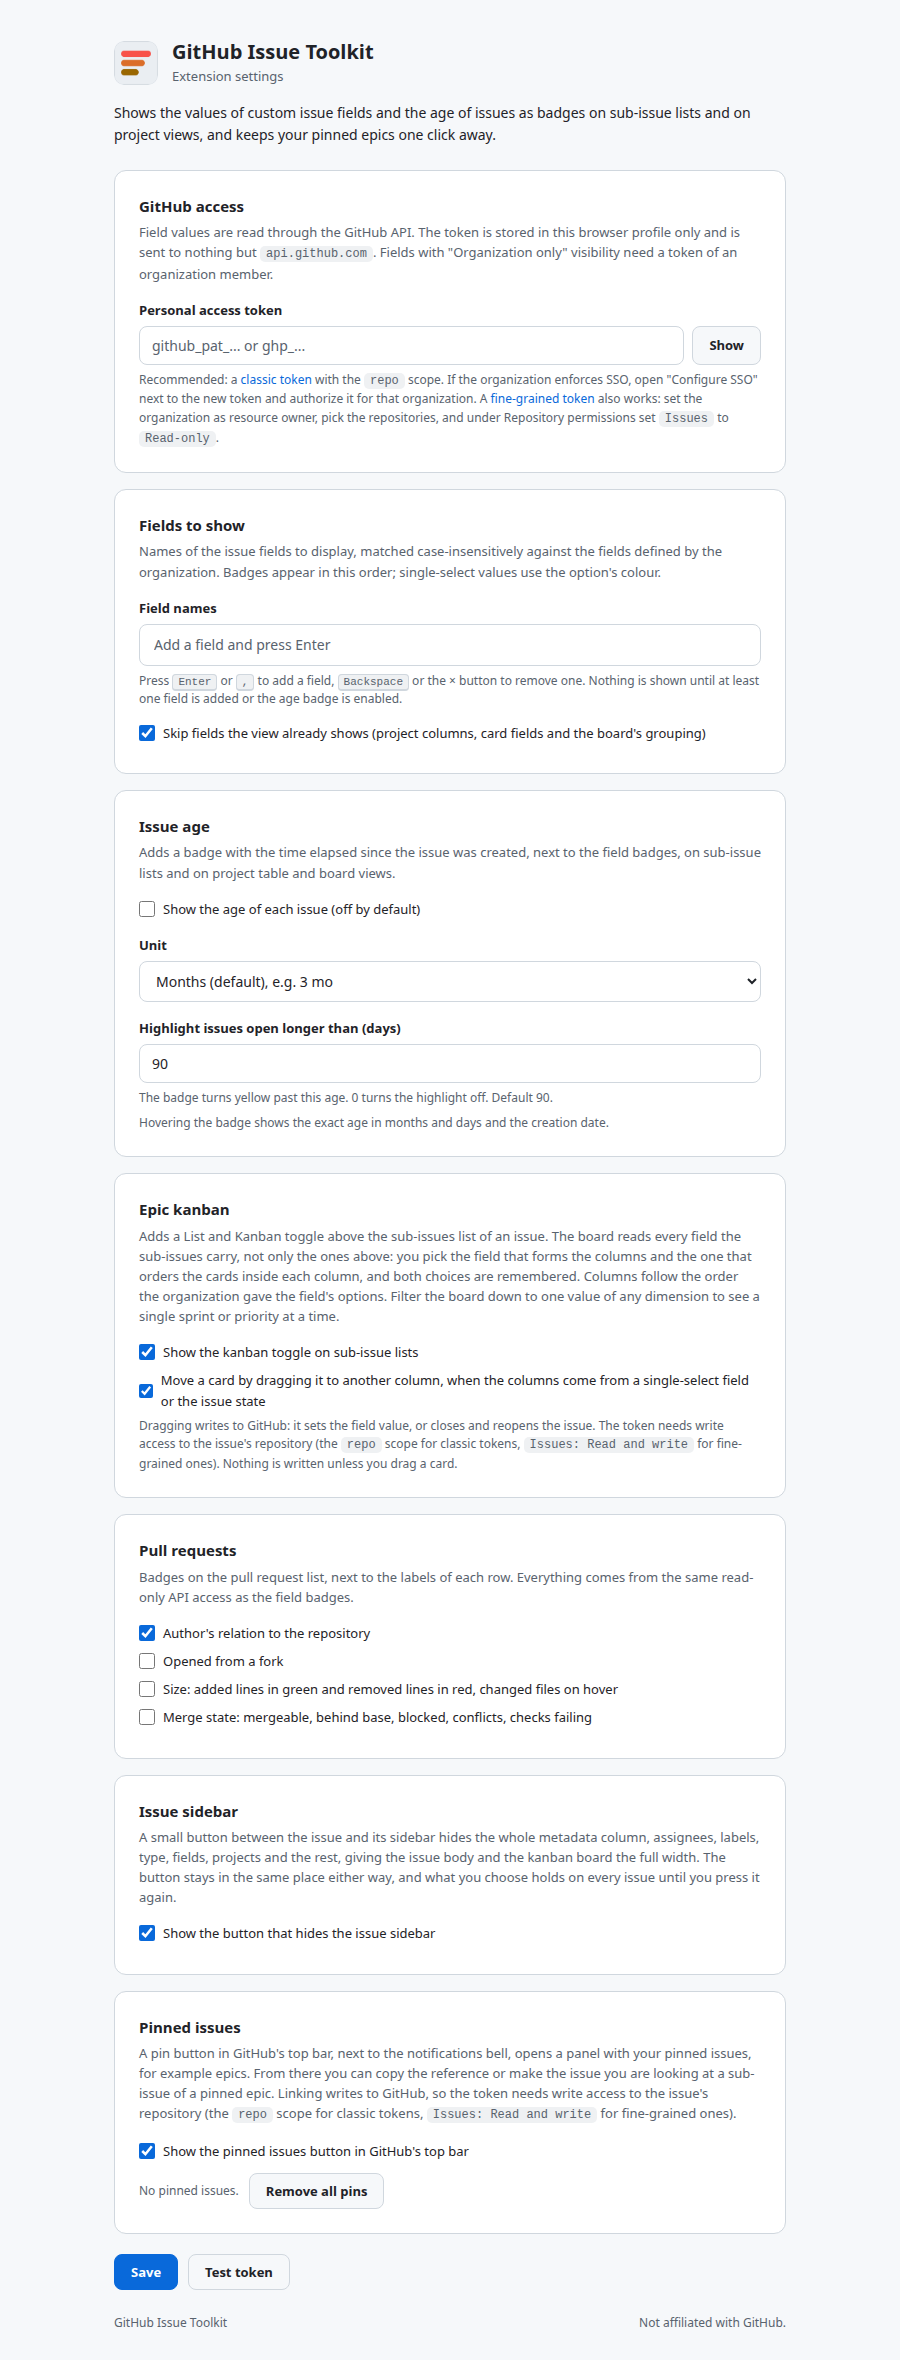
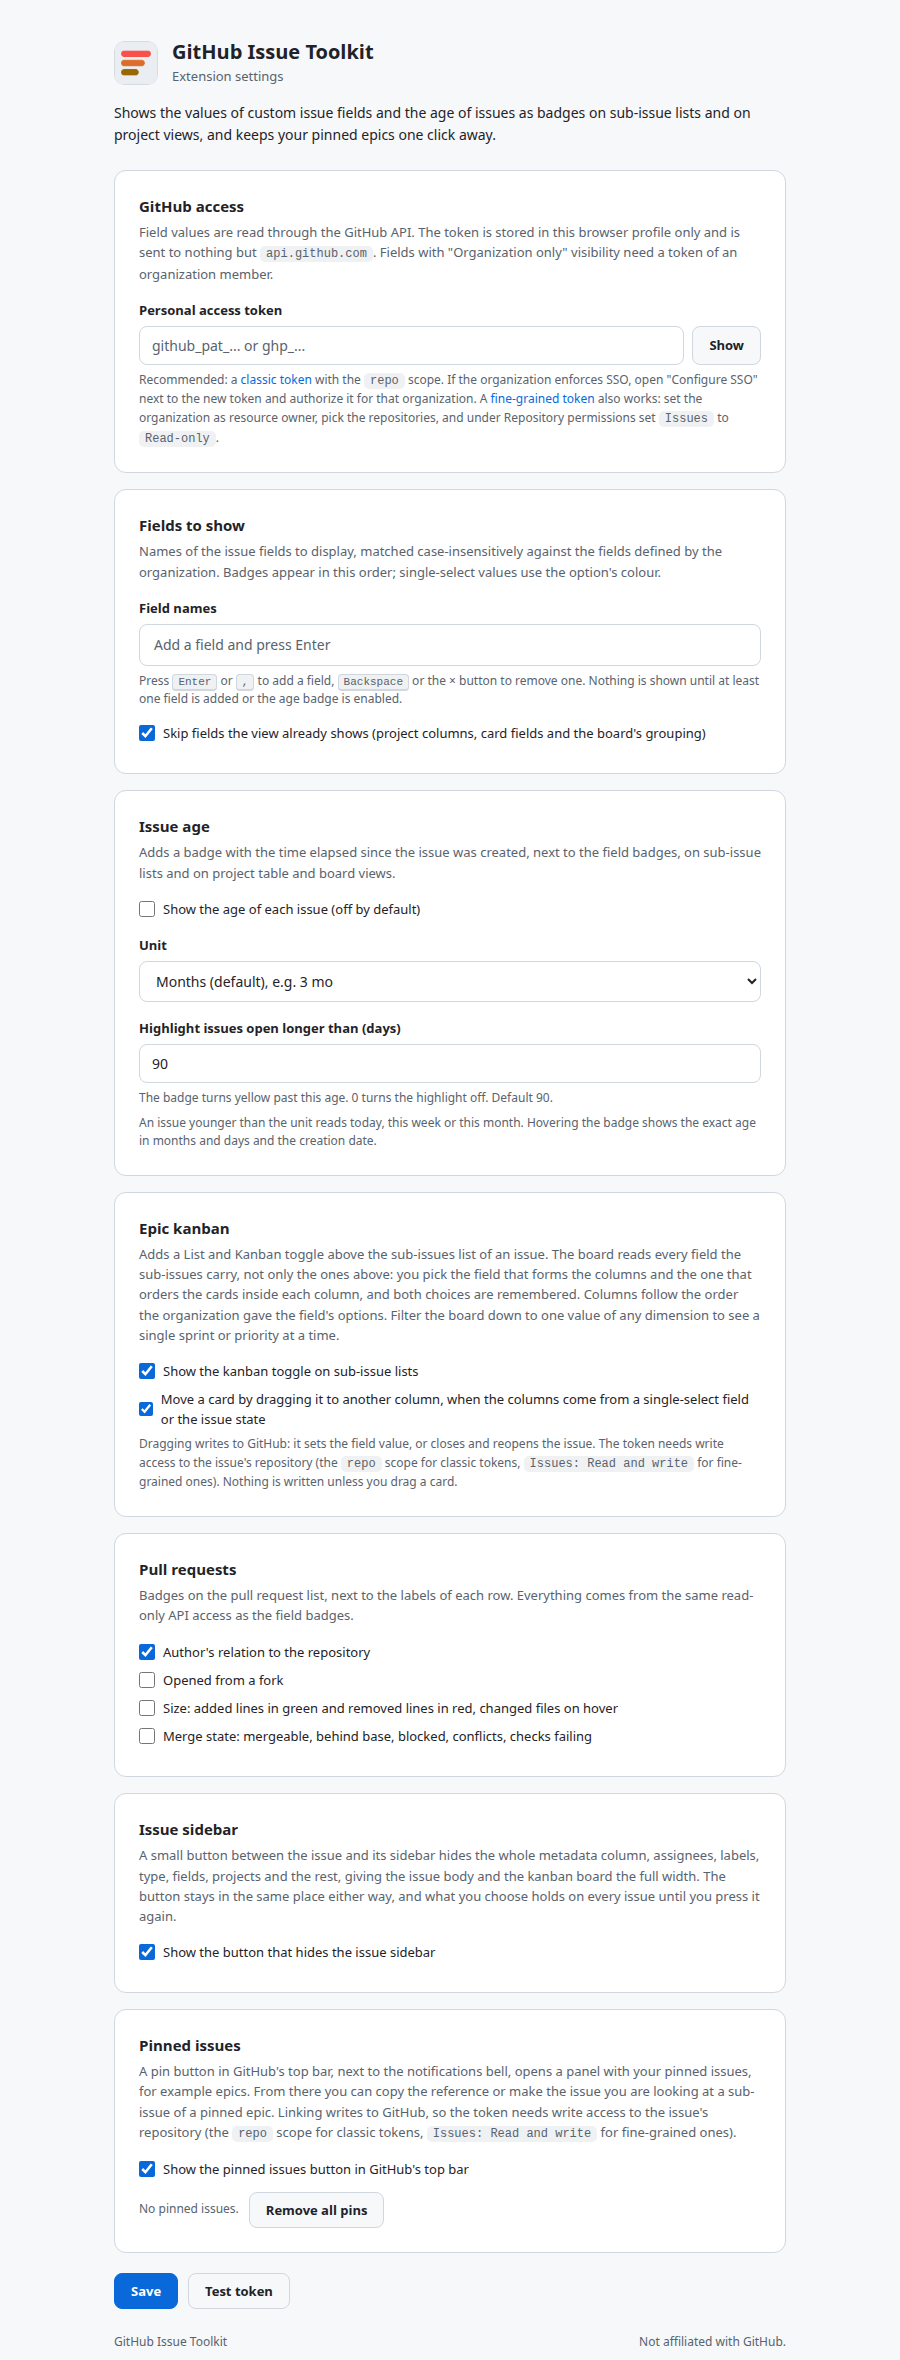
fix(age): say today, this week or this month instead of 0d, <1w and <1 mo (#4)
The age badge used a bare number or a less-than sign for an issue younger than the chosen unit, so a fresh issue read 0d, <1w or <1 mo. Those now read as words, today, this week and this month, which is what the number was trying to say. The settings hint, the README, the site and the changelog describe the new wording.

- content.js: the days unit reads today at zero days, the weeks unit reads this week under one week, the months unit reads this month under one month; the tooltip and the yellow threshold are unchanged.
- options.html: the age hint says how an issue younger than the unit reads.
- README.md, docs/index.html: the age feature descriptions mention the words.
- docs/settings-*.png: re-rendered for the longer hint.
- CHANGELOG.md: Unreleased entry.

Changed region(s): [[0.1244, 0.464, 0.84, 1.0], [0.7156, 0.9898, 0.8711, 1.0]]

diff --git a/docs/index.html b/docs/index.html
@@ -371,7 +371,7 @@
         <div class="card"><h3>You pick the fields</h3><p>Choose which fields to show and in what order on the settings page. One field or five, per your workflow.</p></div>
         <div class="card"><h3>One request per page</h3><p>All visible rows, across repositories, are fetched in batched GitHub GraphQL queries of 60 issues. Results are cached for five minutes.</p></div>
         <div class="card"><h3>Projects views too</h3><p>The same badges appear on GitHub Projects: after the issue number in the table layout, under the title on board cards. A field the view already shows, as a column, a card field or the field the board is grouped by, is skipped so nothing appears twice. Draft items and pull requests are left alone.</p></div>
-        <div class="card"><h3>Issue age, if you want it</h3><p>An optional gray badge shows how long ago each issue was created, in months, weeks or days, and turns yellow once an issue has been open longer than a threshold you set, 90 days by default. Off by default, one checkbox in the settings.</p></div>
+        <div class="card"><h3>Issue age, if you want it</h3><p>An optional gray badge shows how long ago each issue was created, in months, weeks or days, and turns yellow once an issue has been open longer than a threshold you set, 90 days by default. An issue younger than the unit reads today, this week or this month. Off by default, one checkbox in the settings.</p></div>
         <div class="card"><h3>Pull request badges</h3><p>On the pull request list and on Projects views that contain pull requests: whether the author is a first-time contributor, external, a contributor, a collaborator, a member or a bot, plus optional badges for forks, size and merge state.</p></div>
         <div class="card"><h3>Epics as a board</h3><p>An issue with sub-issues gets a List and Kanban toggle. The board groups the sub-issues by any field they carry, orders each column by another, and filters everything down to one value of a third. Drag a card to another column and the field value, or the issue state, is written back to GitHub.</p></div>
         <div class="card"><h3>Sidebar out of the way</h3><p>A chevron in the gutter hides an issue's whole metadata column, and the issue body and the board take the width. It holds on every issue until you press it again.</p></div>
@@ -441,7 +441,7 @@
       </div>
 
       <h3 style="margin-top:28px">Issue age</h3>
-      <p class="muted" style="font-size:14px">Off by default. When enabled, a gray badge shows how long ago the issue was created, in months, weeks or days; past a configurable age, 90 days by default, it turns yellow. Hovering gives the exact age and the creation date.</p>
+      <p class="muted" style="font-size:14px">Off by default. When enabled, a gray badge shows how long ago the issue was created, in months, weeks or days; past a configurable age, 90 days by default, it turns yellow. An issue younger than the unit reads today, this week or this month. Hovering gives the exact age and the creation date.</p>
       <div class="panel gh-card" id="ex-age" style="max-width:680px">
         <div class="head"><svg class="chev" viewBox="0 0 16 16" aria-hidden="true"><path d="M12.78 5.22a.749.749 0 0 1 0 1.06l-4.25 4.25a.749.749 0 0 1-1.06 0L3.22 6.28a.749.749 0 1 1 1.06-1.06L8 8.939l3.72-3.719a.749.749 0 0 1 1.06 0Z"/></svg><span class="head-title">Sub-issues</span><span class="progress"><svg class="prog" viewBox="0 0 16 16" aria-hidden="true"><circle cx="8" cy="8" r="6" fill="none" stroke="currentColor" stroke-opacity=".3" stroke-width="2"/><path d="M8 2a6 6 0 0 1 6 6" fill="none" stroke="currentColor" stroke-width="2"/></svg>1 of 3</span><svg class="ico" viewBox="0 0 16 16" aria-hidden="true"><path d="M.75 3h14.5a.75.75 0 0 1 0 1.5H.75a.75.75 0 0 1 0-1.5ZM3 7.75A.75.75 0 0 1 3.75 7h8.5a.75.75 0 0 1 0 1.5h-8.5A.75.75 0 0 1 3 7.75Zm3 4a.75.75 0 0 1 .75-.75h2.5a.75.75 0 0 1 0 1.5h-2.5a.75.75 0 0 1-.75-.75Z"/></svg></div>
         <div class="row"><svg class="state" viewBox="0 0 16 16" aria-label="Open" role="img"><path d="M8 9.5a1.5 1.5 0 1 0 0-3 1.5 1.5 0 0 0 0 3Z"/><path d="M8 0a8 8 0 1 1 0 16A8 8 0 0 1 8 0ZM1.5 8a6.5 6.5 0 1 0 13 0 6.5 6.5 0 0 0-13 0Z"/></svg><div class="text"><span class="badge b-danger">Bug</span><span class="badge b-severe">P1: Must Have</span><span class="badge b-neutral">7 mo</span>Search results ignore the selected date range<span class="ref">#1482</span></div><div class="extras"><svg class="pr" viewBox="0 0 16 16" aria-hidden="true"><path d="M1.5 3.25a2.25 2.25 0 1 1 3 2.122v5.256a2.251 2.251 0 1 1-1.5 0V5.372A2.25 2.25 0 0 1 1.5 3.25Zm5.677-.177L9.573.677A.25.25 0 0 1 10 .854V2.5h1A2.5 2.5 0 0 1 13.5 5v5.628a2.251 2.251 0 1 1-1.5 0V5a1 1 0 0 0-1-1h-1v1.646a.25.25 0 0 1-.427.177L7.177 3.427a.25.25 0 0 1 0-.354Z"/></svg> 2<span class="avatar a1"></span><span class="kebab" aria-hidden="true">···</span></div></div>

diff --git a/content.js b/content.js
@@ -207,13 +207,13 @@
     const days = Math.max(0, Math.floor((Date.now() - created.getTime()) / DAY_MS));
     let text;
     if (settings.ageUnit === "days") {
-      text = `${days}d`;
+      text = days === 0 ? "today" : `${days}d`;
     } else if (settings.ageUnit === "weeks") {
       const weeks = Math.floor(days / 7);
-      text = weeks < 1 ? "<1w" : `${weeks}w`;
+      text = weeks < 1 ? "this week" : `${weeks}w`;
     } else {
       const months = Math.floor(days / 30.4375);
-      text = months < 1 ? "<1 mo" : `${months} mo`;
+      text = months < 1 ? "this month" : `${months} mo`;
     }
     const months = Math.floor(days / 30.4375);
     const warn = settings.ageWarnDays > 0 && days >= settings.ageWarnDays;

diff --git a/options.html b/options.html
@@ -190,7 +190,7 @@
       <label for="age-warn">Highlight issues open longer than (days)</label>
       <input id="age-warn" type="number" min="0" step="1" inputmode="numeric" placeholder="90">
       <p class="hint">The badge turns yellow past this age. 0 turns the highlight off. Default 90.</p>
-      <p class="hint">Hovering the badge shows the exact age in months and days and the creation date.</p>
+      <p class="hint">An issue younger than the unit reads today, this week or this month. Hovering the badge shows the exact age in months and days and the creation date.</p>
     </section>
 
     <section class="card">

diff --git a/README.md b/README.md
@@ -48,7 +48,7 @@ Illustrations of an invented repository, rendered from the documentation site wi
 </picture>
 </p>
 
-**Issue age** (optional, off by default): a gray badge with the time since the issue was created, in months, weeks or days; yellow once the issue is older than the threshold, 90 days by default.
+**Issue age** (optional, off by default): a gray badge with the time since the issue was created, in months, weeks or days, or today, this week or this month for an issue younger than the unit; yellow once the issue is older than the threshold, 90 days by default.
 
 <p align="center">
 <picture>
@@ -88,7 +88,7 @@ Illustrations of an invented repository, rendered from the documentation site wi
 
 - Badges appear next to the issue type on each sub-issue row, in the option's colour.
 - The same badges appear on GitHub Projects views: after the issue number in the table layout, under the title on board cards. Fields the view already shows are skipped so nothing appears twice: a column, a card field, or the field a board is grouped by (can be turned off in the settings).
-- An optional **age** badge shows how old each issue is, in months (`3 mo`), weeks or days, and turns yellow once an issue has been open longer than a threshold you choose (90 days by default). Off by default.
+- An optional **age** badge shows how old each issue is, in months (`3 mo`), weeks or days, reads `today`, `this week` or `this month` for an issue younger than the unit, and turns yellow once an issue has been open longer than a threshold you choose (90 days by default). Off by default.
 - **Pull request badges** on the pull request list and on Projects views that contain pull requests: the author's relation to the repository (first-time contributor, external, contributor, collaborator, member, bot) on by default, plus optional badges for forks, size (added lines in green, removed in red) and merge state.
 - An **epic kanban**: above the sub-issues list of an issue, a List and Kanban toggle draws those sub-issues as a board. The columns come from any field the sub-issues carry (or their state, type or assignee), the cards inside a column are ordered by another, and a filter keeps one value of a third; every choice is remembered. Dragging a card to another column writes the field value back to GitHub, or closes and reopens the issue. Both the board and the dragging can be switched off in the settings.
 - A button that **hides the issue sidebar**: one press folds away the whole metadata column, assignees, labels, type, fields, projects and the rest, and gives the issue body and the board that width. The button sits in the gutter between the two, so it does not move when the sidebar goes, and what you chose holds on every issue. Can be switched off in the settings.

diff --git a/CHANGELOG.md b/CHANGELOG.md
@@ -4,7 +4,9 @@ All notable changes to this project are documented here. The format follows [Kee
 
 ## [Unreleased]
 
-Nothing yet.
+### Changed
+
+- The age badge reads `today`, `this week` or `this month` for an issue younger than the chosen unit, instead of `0d`, `<1w` and `<1 mo`.
 
 ## [2.4.1] - 2026-09-17
 
